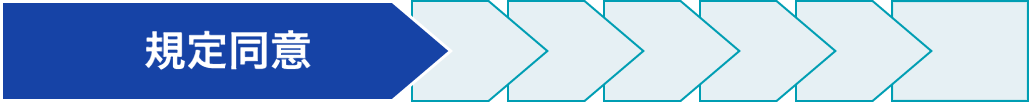
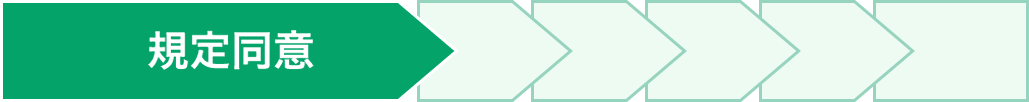
改修 主题

diff --git a/src/styles/element-ui.scss b/src/styles/element-ui.scss
@@ -1,3 +1,10 @@
+/* 改变主题色变量 */
+$--color-primary: #03A369;
+
+/* 改变 icon 字体路径变量，必需 */
+$--font-path: '~element-ui/lib/theme-chalk/fonts';
+
+@import "~element-ui/packages/theme-chalk/src/index";
 // cover some element-ui styles
 .el-breadcrumb__inner,
 .el-breadcrumb__inner a {
@@ -95,7 +102,7 @@ $buttonHoverFontColor: #000;
     height: 35px !important;
     border: 1.5px solid #fffefe00 !important;
     border-radius: 5px !important;
-    background-image: linear-gradient(#01216B, #01216B);
+    background-image: linear-gradient(#03A369, #03A369);
     overflow: hidden;
     color: white;
      background-color: rgba(7, 193, 97, 0) !important;
@@ -103,11 +110,11 @@ $buttonHoverFontColor: #000;
 }
 .button_All_{
     height: 35px !important;
-    border: 1px solid #01216B !important;
+    border: 1px solid #03A369!important;
     border-radius: 5px !important;
     background-image: linear-gradient(#ffffff, #ffffff);
     overflow: hidden;
-    color: #01216B !important;
+    color: #03A369 !important;
      background-color: rgba(7, 193, 97, 0) !important;
      width: 200px; 
 }
@@ -314,5 +321,51 @@ button {
 }
 .btn_w_ {
     width: 200px;
+  }
+
+ .el-checkbox__input.is-checked .el-checkbox__inner, .el-checkbox__input.is-indeterminate .el-checkbox__inner {
+    border-color: #03A369 !important;
+    background-color: #03A369 !important;
+}
+  .el-input.is-active .el-input__inner, .el-input__inner:focus{
+    border-color: #03A369;
+  }
+   .van-button--plain.van-button--info{
+    color: #03A369 !important; 
+  }
+  .van-button--info {
+    border: 1px solid #03A369 !important;
+  }
+  .el-radio__input.is-checked .el-radio__inner {
+      border-color: #03A369;
+      background: #03A369;
+  }
+   .el-radio__input.is-checked+.el-radio__label {
+      color: #03A369;
+  }
+   .el-checkbox__input.is-checked .el-checkbox__inner, .el-checkbox__input.is-indeterminate .el-checkbox__inner {
+      background-color: #03A369;
+      border-color: #03A369;
+  }
+  .el-checkbox__inner:hover {
+      border-color: #03A369;
+  }
+   .el-checkbox__input.is-checked+.el-checkbox__label{
+    color: #03A369;
+  }
+  .el-checkbox__input.is-focus .el-checkbox__inner{
+     border-color: #03A369;
+  }
+  .el-select .el-input.is-focus .el-input__inner{
+    border-color: #03A369;
+  }
+  .el-select-dropdown__item.selected{
+    color: #03A369;
+  }
+  .el-select .el-input__inner:focus{
+    border-color: #03A369;
+  }
+  .el-loading-spinner .el-loading-text{
+    color: #03A369;
   }
 

diff --git a/src/views/confirm/confirm.vue b/src/views/confirm/confirm.vue
@@ -46,7 +46,7 @@
                     <div class="flex_center">
                       <span class="font_weight_bold">お名前（漢字）</span>
                     </div>
-                    <van-button round plain style="height:25px;border: 1px solid rgb(1 33 107);background-color:rgb(1 33 107);color: rgb(255 255 255);" type="info"
+                    <van-button round plain style="height:25px;border: 1px solid #03A369;background-color:#03A369;color: rgb(255 255 255) !important;" type="info"
                       @click="toPage('inputCustomer')">修正</van-button>
                   </el-col>
                 </el-row>
@@ -378,7 +378,7 @@
                     <div class="">
                       <span class="font_weight_bold">お取引の目的</span>
                     </div>
-                    <van-button round plain style="height:25px;border: 1px solid rgb(1 33 107);background-color:rgb(1 33 107);color: rgb(255 255 255);" type="info"
+                    <van-button round plain style="height:25px;border: 1px solid #03A369;background-color:#03A369;color: rgb(255 255 255) !important;" type="info"
                       @click="toPage('inputApplication')">修正</van-button>
                   </el-col>
                 </el-row>

diff --git a/src/views/explanation/explanation.vue b/src/views/explanation/explanation.vue
@@ -172,15 +172,15 @@
     <div class="btom_div position_B_R">
       <el-row style="height: 90px">
         <el-col :xs="24" :sm="24" class="flex_center">
-          <div class="flex_between btnw">
-            <van-button
+          <div class="flex_center btnw">
+            <!-- <van-button
               class="flex_center button_All_ position_R application_w"
               type="primary"
               @click="goBack()"
             >
               <span class="position_R_">〈</span>
               <span>戻る</span>
-            </van-button>
+            </van-button> -->
             <van-button
               class="flex_center button_All position_R application_w"
               type="primary"
@@ -264,7 +264,7 @@ export default {
     },
     goBack() {
         this.$router.push({
-          name: "advance",
+          name: "explanation",
           params: {},
         });
       },

diff --git a/src/views/agree/agree.vue b/src/views/agree/agree.vue
@@ -461,7 +461,7 @@
       },
       toPage() {
         this.$router.push({
-          name: "advance",
+          name: "explanation",
           params: {},
         });
       },
@@ -470,11 +470,11 @@
 </script>
 
 <style scoped>
-  /deep/.el-checkbox__input.is-checked .el-checkbox__inner,
+  /* /deep/.el-checkbox__input.is-checked .el-checkbox__inner,
 .el-checkbox__input.is-indeterminate .el-checkbox__inner {
   border-color: #409EFF !important;
   background-color: #409EFF !important;
-}
+} */
 /deep/.el-checkbox__inner:hover {
   border-color: #01216b !important;
 }

diff --git a/src/views/inputApplication/inputApplication.vue b/src/views/inputApplication/inputApplication.vue
@@ -979,12 +979,12 @@
     padding: 5px 0;
   }
   .check01 {
-    border: 5px solid rgb(0 121 255);
+    border: 5px solid #03A369;
     border-radius: 10px;
   }
 
   .check02 {
-    border: 5px solid rgb(0 121 255);
+    border: 5px solid #03A369;
     border-radius: 10px;
   }
 

diff --git a/src/views/inputCustomer/inputCustomer.vue b/src/views/inputCustomer/inputCustomer.vue
@@ -1483,5 +1483,4 @@ export default {
   }
 }
 
-
 </style>
